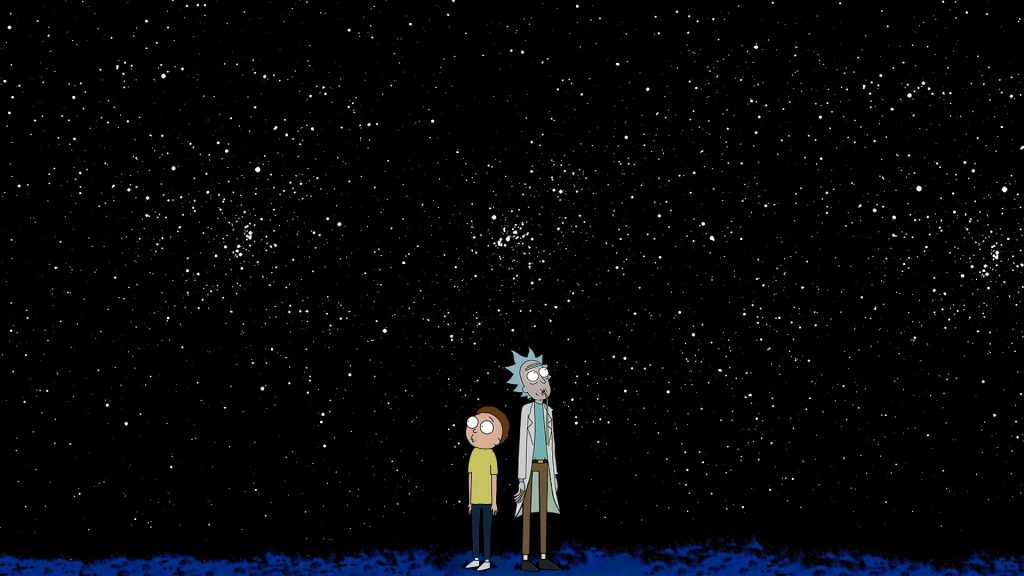
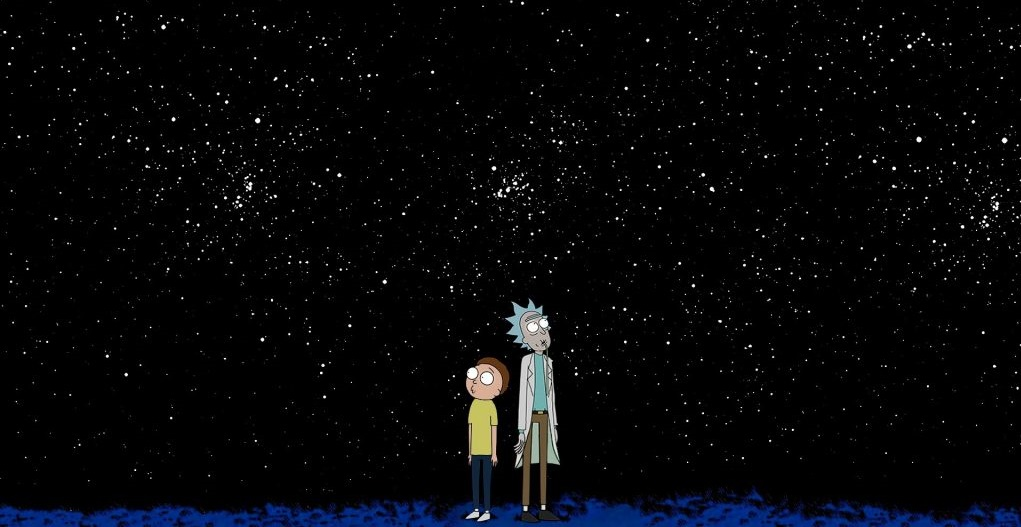
Hasta módulo 3

diff --git a/Client/src/App.js b/Client/src/App.js
@@ -10,37 +10,27 @@ import Form from "./components/Form";
 import Favorites from "./components/Favorites";
 import { useLocation, useNavigate } from "react-router-dom";
 import axios from "axios";
-const URL = "http://localhost:3001/rickandmorty/login";
+const URL = "http://localhost:3001/rickandmorty/login/";
 
 function App() {
-  //let [chars_id, setchars_id] = useState([]);
   const [characters, setCharacters] = useState([]);
   const navigate = useNavigate();
   const [access, setAccess] = useState(false);
 
-  //   const login = async (userData) => {
-  //     try {
-  //       const { email, password } = userData;
-  //       const { data } = await axios(
-  //         URL + `?email=${email}&password=${password}`
-  //       );
-  //       const { access } = data;
-  //       setAccess(access);
-  //       access && navigate("/home");
-  //     } catch (error) {
-  //       console.log(`Hubo un error en el login ${error.message}`);
-  //     }
-  //   };
-  function login(userData) {
-    const email = "jhguzmans@gmail.com";
-    const password = "123asd";
-    if (userData.password === password && userData.email === email) {
-      setAccess(true);
-      navigate("/home");
-    } else {
-      alert("El usuario o la contraseña son incorrectos");
+  const login = async (userData) => {
+    try {
+      const { email, password } = userData;
+      const { data } = await axios(
+        URL + `?email=${email}&password=${password}`
+      );
+      const { access } = data;
+      setAccess(data);
+      access && navigate("/home");
+    } catch (error) {
+      console.log(error.message);
     }
-  }
+  };
+
   const logout = () => {
     setAccess(false);
   };
@@ -51,7 +41,7 @@ function App() {
 
   const onSearch = async (id) => {
     try {
-      const data = await axios(
+      const { data } = await axios(
         `http://localhost:3001/rickandmorty/character/${id}`
       );
       if (data.name) {

diff --git a/Client/src/App.css b/Client/src/App.css
@@ -1,11 +1,11 @@
-/* .App {
-  background-image: url("./img/RYKf_Back.jpg");
-  background-repeat: no-repeat;
-  background-size: 100%;
-} */
 .App {
   background-image: url("./img/RYKf_Back.jpg");
   background-size: cover;
+  background-position: center; /* Centra la imagen en la pantalla */
   background-repeat: no-repeat;
   background-attachment: fixed;
+  width: 100vw; /* Asegura que el contenedor cubra el ancho de la pantalla */
+  height: 100vh; /* Asegura que el contenedor cubra la altura de la pantalla */
+  margin: 0; /* Elimina el margen predeterminado del body */
+  padding: 0; /* Elimina el relleno predeterminado del body */
 }

diff --git a/Server/src/controllers/login.js b/Server/src/controllers/login.js
@@ -4,10 +4,13 @@ const login = (req, res) => {
   const userFound = users.find(
     (user) => user.email === email && user.password === password
   );
-  return userFound
-    ? res.status(200).json({ access: true })
-    : res.status(404).json({ access: false });
+  if (userFound) {
+    return res.status(200).json({ access: true });
+  } else {
+    return res.status(404).json({ access: false });
+  }
+  //   userFound
+  //     ? res.status(200).json({ access: true })
+  //     : res.status(404).json({ access: false });
 };
-module.exports = {
-  login,
-};
+module.exports = login;

diff --git a/Client/src/redux/reducer.js b/Client/src/redux/reducer.js
@@ -7,10 +7,10 @@ const initialState = {
 
 const reducer = (state = initialState, { type, payload }) => {
   switch (type) {
-    case "ADD_FAV":
+    case ADD_FAV:
       return { ...state, myFavorites: payload, allCharacters: payload };
-    case "REMOVE_FAV":
-      return { ...state, myFavorites: payload };
+    case REMOVE_FAV:
+      return { ...state, myFavorites: payload, allCharacters: payload };
     case FILTER:
       const allCharactersFiltered = state.allCharactersFav.filter(
         (character) => character.gender === payload

diff --git a/Client/src/components/Card.jsx b/Client/src/components/Card.jsx
@@ -3,7 +3,7 @@ import { Link } from "react-router-dom";
 import { addFav, removeFav } from "../redux/actions";
 import { connect } from "react-redux";
 import { useState, useEffect } from "react";
-import { useLocation, useNavigate } from "react-router-dom";
+import { useLocation } from "react-router-dom";
 
 function Card({
   name,
@@ -35,7 +35,7 @@ function Card({
         setIsFav(true);
       }
     });
-  }, [myFavorites]);
+  }, [myFavorites, id]);
 
   return (
     <div className={style.contenedor}>

diff --git a/Server/src/controllers/getCharById.js b/Server/src/controllers/getCharById.js
@@ -11,7 +11,7 @@ const getCharById = async (req, res) => {
       id: data.id,
       name: data.name,
       species: data.species,
-      origin: origin.name,
+      origin: data.origin,
       image: data.image,
       gender: data.gender,
       status: data.status,
@@ -22,7 +22,6 @@ const getCharById = async (req, res) => {
       ? res.status(404).send(error.message)
       : res.status(500).send(error.response.data.error);
   }
-  //res.status(404).send("Not found");
 };
 
 module.exports = {

diff --git a/Server/src/routes/index.js b/Server/src/routes/index.js
@@ -1,6 +1,6 @@
 const { getCharById } = require("../controllers/getCharById");
 const { postFav, deleteFav } = require("../controllers/handleFavorites");
-const { login } = require("../controllers/login");
+const login = require("../controllers/login");
 const router = require("express").Router();
 
 router.get("/character/:id", (req, res) => {

diff --git a/Client/src/components/Form.jsx b/Client/src/components/Form.jsx
@@ -20,7 +20,8 @@ const Form = ({ login }) => {
       validation(userData, setUserData, errors, setErrors, event)
     );
   };
-  const handleSubmit = () => {
+  const handleSubmit = (event) => {
+    event.preventDefault();
     login(userData);
   };
   return (
